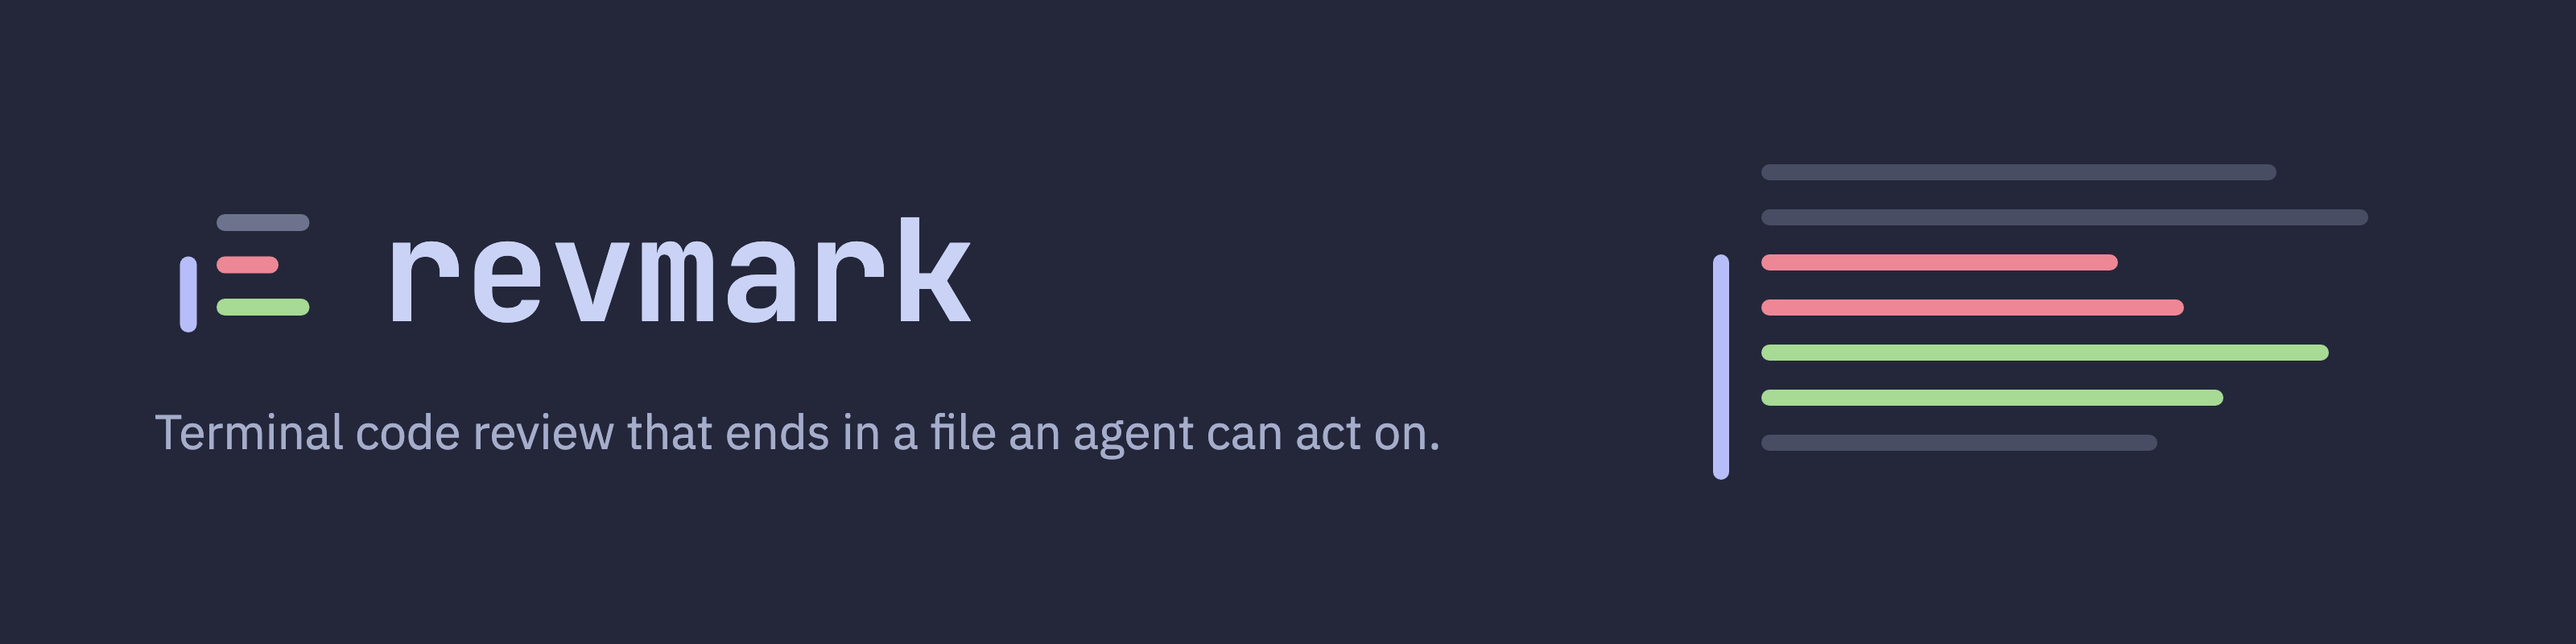
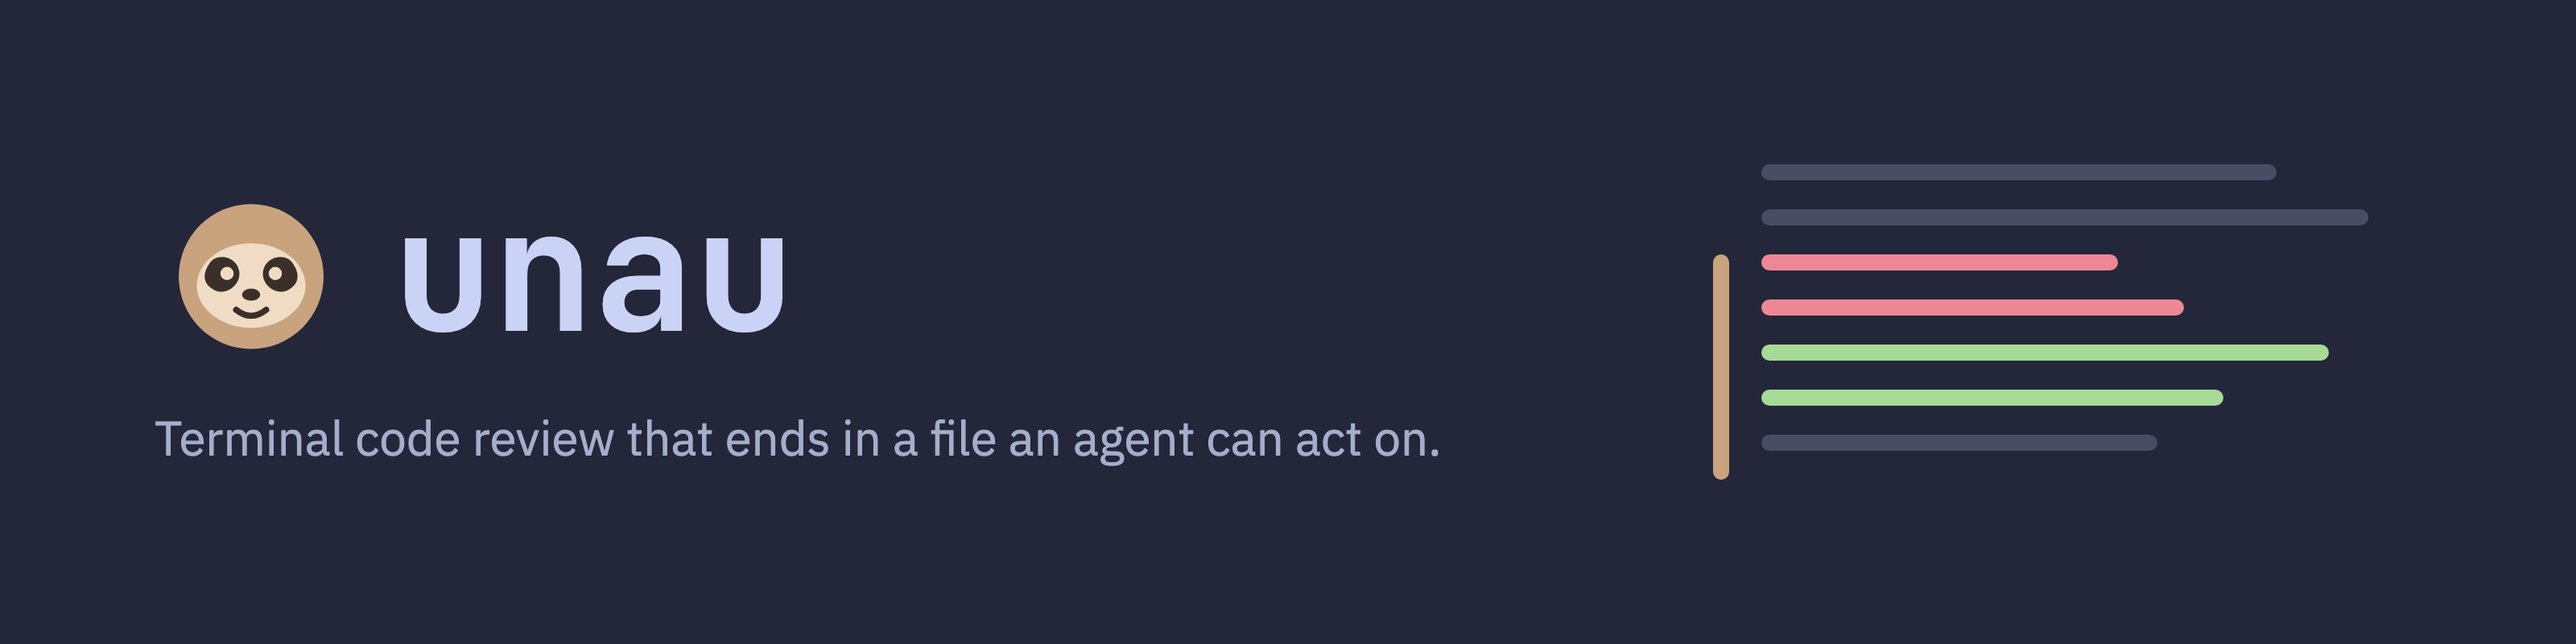
docs: move design notes to RATIONALE.md, rebrand
The design notes become a rationale file at the root, leaving docs/
for a documentation site. The logo, header, social preview and
workflow images carry the new name.

Changed region(s): [[0.0625, 0.3125, 0.375, 0.5625], [0.0625, 0.6562, 0.5625, 0.7188], [0.6562, 0.4062, 0.6875, 0.75]]

diff --git a/RATIONALE.md b/RATIONALE.md
@@ -1,0 +1,83 @@
+# unau — rationale
+
+Why unau is shaped the way it is. What it does, rule by rule, is in the spec;
+how to use it is in the README. This file changes when a decision does, not
+with every feature.
+
+## The itch
+
+An agent writes code. I want to review it in a terminal the way lazygit
+reviews: a tree of changed files, a diff pane, select lines, stage what is
+right. For what is wrong I want to mark the lines with feedback or hand over
+replacement code, and end up with **one file** I can point any agent at: "fix
+every open item in this". Then reopen the same review, see what the agent
+changed, and accept it or push back.
+
+## Prior art
+
+| Tool | Stack | Has | Lacks |
+| --- | --- | --- | --- |
+| [annodiff](https://github.com/MelsRoughSketch/annodiff) | Rust + ratatui | tree with folding, line select, comments, `$EDITOR`, send to Codex | staging, suggestions, an agent-agnostic file, status lifecycle, re-review, run |
+| [critique](https://github.com/remorses/critique) | Bun | a fine viewer, PR URLs, web share, watch | any annotation |
+| [hunkr](https://github.com/wvvb/hunkr) | Go | terminal PR review for humans and agents | small, PR-shaped |
+| [reslop](https://github.com/tshemsedinov/reslop) | Node | a `.review/*.md` checklist with a status, among a dozen other things | a fit for my preferences and personal workflow |
+| [revu](https://github.com/eddmann/revu) | TypeScript desktop | inline commenting for agent workflows | a terminal interface |
+
+annodiff was about 60% of this. Forking it was considered and dropped the
+same day: it would have meant splitting a 2,400-line `app.rs`, removing the
+Codex layer and replacing its JSON state anyway. unau was written from its own
+spec instead, with annodiff read as a reference. Ideas were taken, not code,
+with one exception: pairing removed and added lines side by side is adapted
+from its `split_rows` (MIT; notice in `assets/notices/`).
+
+The review file's shape (a dated Markdown checklist with a frontmatter
+`status`) comes from reslop on purpose, so habits built around it carry over.
+
+## Decisions
+
+1. **Review surface only.** Diff tree, line staging, annotations, the review
+   file, run, re-review. No dashboard, commits, branches or PR URLs: other
+   tools do those, and each one would blur what this is for.
+2. **The working tree by default; commits and ranges from day one.** Staged,
+   unstaged and untracked changes are what an agent leaves behind. A commit
+   or range uses the same engine read-only, so staging keys are off there.
+3. **Staged means accepted.** Anything staged is done, so it never appears in
+   the review. The review file is the to-do list, not a transcript; accepting
+   a fix in re-review stages it, and a review is finished when nothing is open
+   and nothing is left unstaged.
+4. **The review file is the state.** Markdown, written on every change, no
+   save key, no JSON sidecar or database. Reopening the file gives the review
+   back, a person can read and edit it, and any agent that reads text can act
+   on it. annodiff's JSON state was the shape rejected.
+5. **Anchors on the new side, with the lines quoted.** `path:start-end` names
+   lines the agent can open; the quote lets it re-find them after line numbers
+   drift, which they always do once it starts editing.
+6. **Agent-agnostic.** The tool knows one thing about agents: a command line
+   with `{file}` in it. No SDKs, sockets or sessions, so any agent, script or
+   person can do the work, and nothing breaks when an agent changes its API.
+   Display helpers for one agent's output (Claude's stream) stay optional
+   filters on what the command prints.
+7. **Run in a pane, not an embedded terminal.** `r` opens a tmux or Herdr pane
+   when unau runs in one, else steps aside for the foreground, or streams a
+   non-interactive agent into a run pane. An embedded terminal for interactive
+   agents was rejected: that is a terminal multiplexer, which tmux and Herdr
+   already are, and it would put child processes inside the state.
+8. **`git` shelled out, never linked.** Line staging is `git apply --cached` on
+   a patch built for the selection, the way lazygit does it. No `git2`: the
+   `git` on the machine already has every behaviour the user expects.
+9. **Pure state, pure render.** `AppState` holds no terminal or processes, so
+   every behaviour is tested without a terminal; drawing reads state and never
+   changes it.
+10. **Keyboard only, every key remappable.** No mouse: a review is a sequence
+    of small, repeatable moves, and those belong on keys.
+11. **Writes stay in the review folder.** Apart from staging, discarding, the
+    files a person opens from inside unau, and a per-repository view session
+    in the user's state directory, unau writes nothing outside its review
+    folder and never touches `.gitignore`.
+12. **Themes like yazi's.** One named theme for dark backgrounds and one for
+    light, overrides per colour on top. Every built-in family is a palette
+    mapped onto the interface the way Catppuccin's style guide places colours,
+    so they all read the same way. A theme paints its own background: left to
+    the terminal, a light theme on a dark terminal is dark text on black.
+    Keeping the terminal's background stays one setting away for people who
+    want its transparency.
